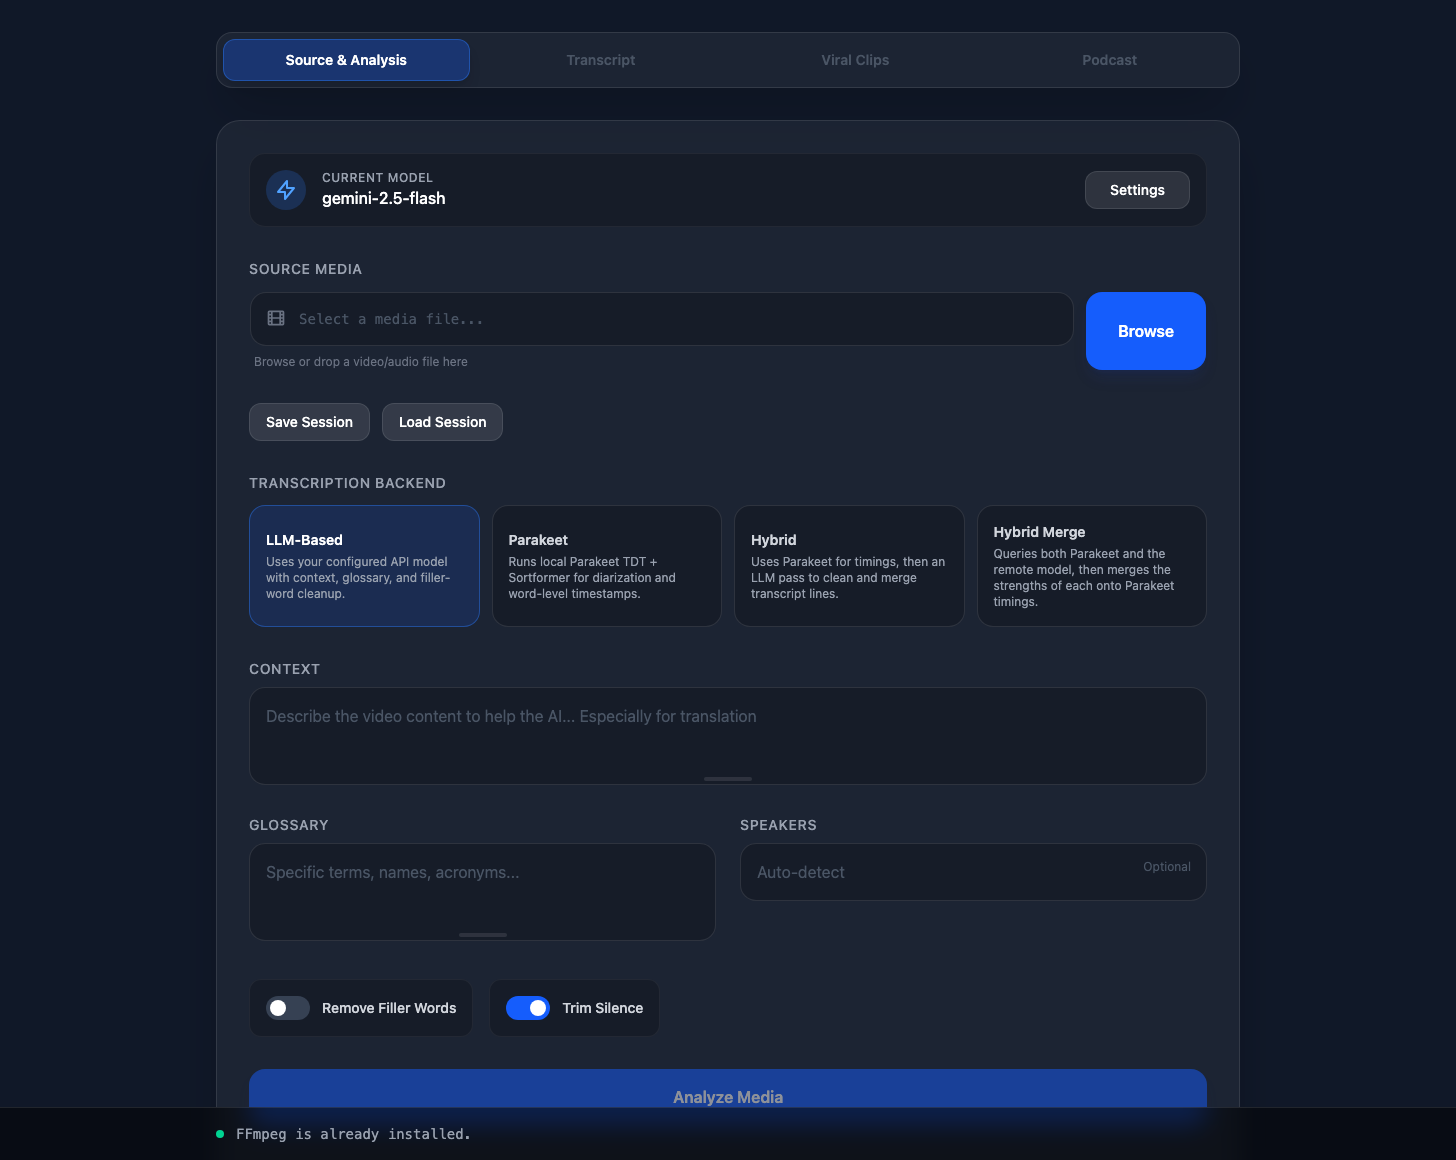
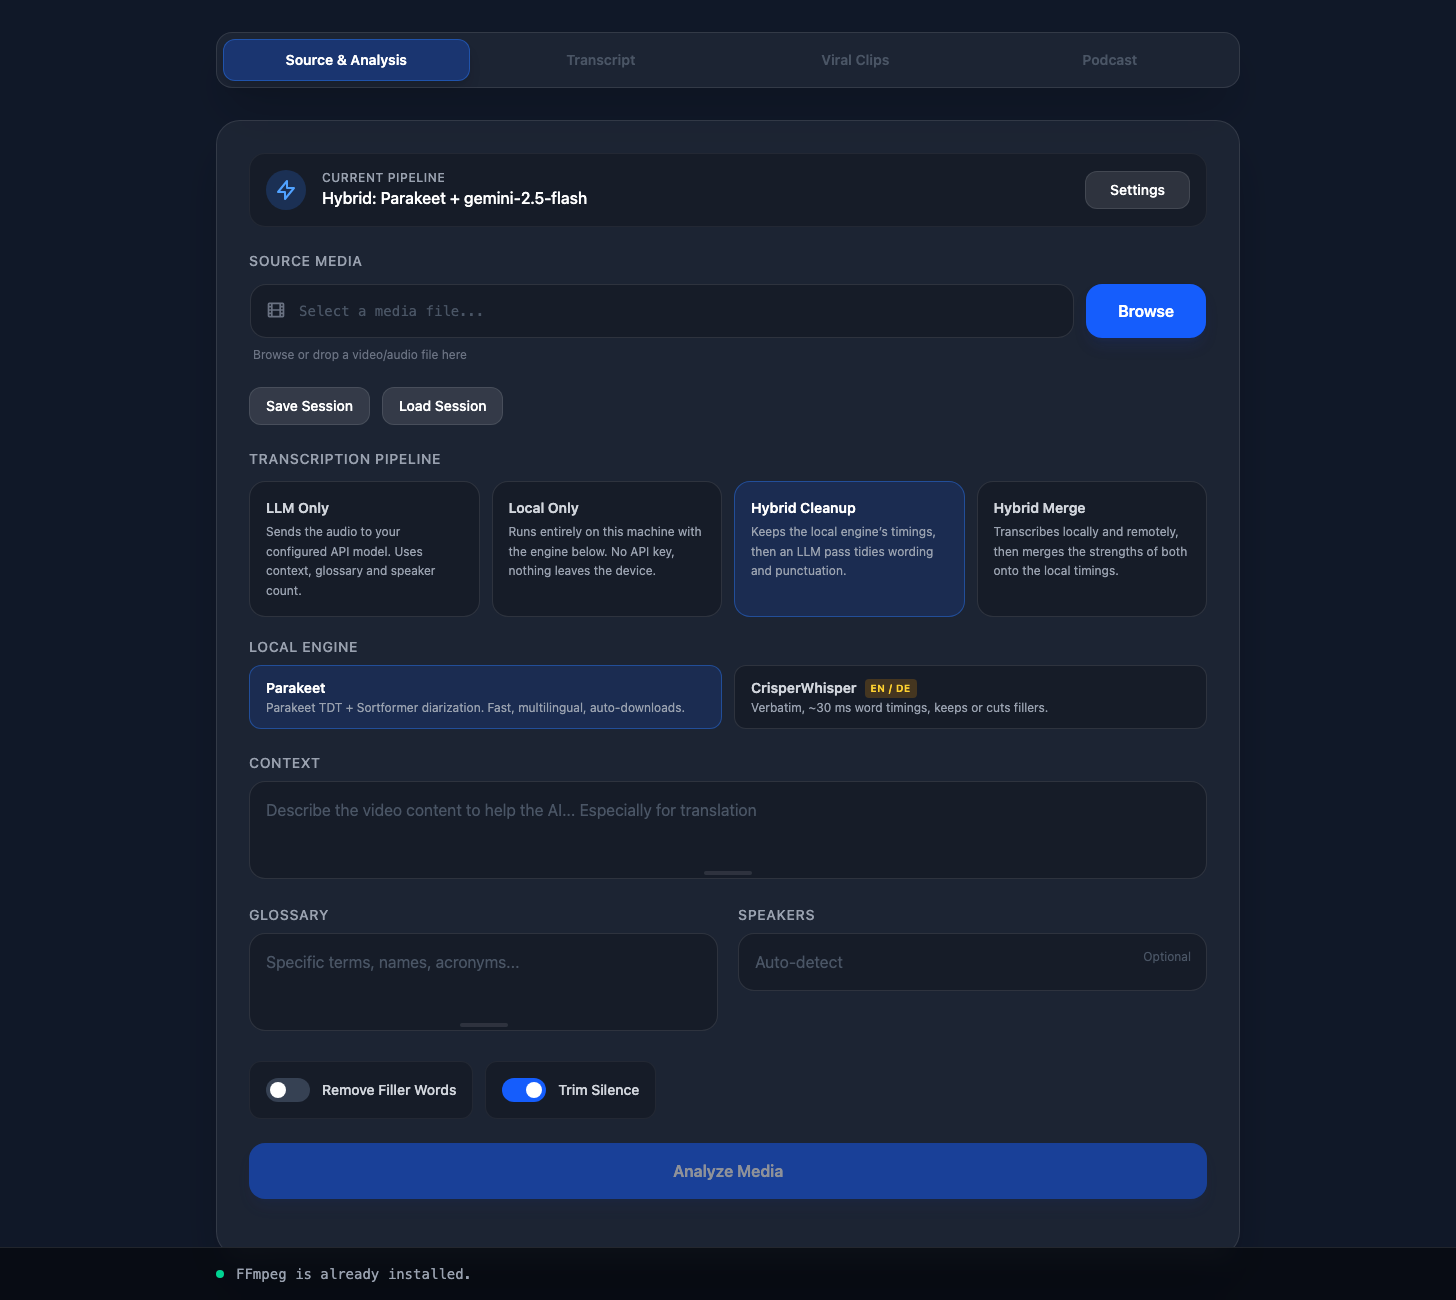
style(ui): fix control alignment and tighten panel rhythm
The Browse button was sized to the file input *plus* its helper hint,
because the hint sat inside the flex row and stretch alignment applied to
both. Moving the hint out makes the button match the input.

Also widens the truncated translation-language button and settles the panel
on a consistent 24px rhythm, which keeps the primary action visible without
scrolling.

The screenshot demo now seeds a hybrid pipeline so the generated previews
show both selection rows.

diff --git a/src/components/FileSelector.vue b/src/components/FileSelector.vue
@@ -163,7 +163,7 @@ onUnmounted(() => {
 </script>
 
 <template>
-    <div class="mb-8">
+    <div class="mb-6">
         <label class="block text-sm font-medium text-gray-400 mb-3 uppercase tracking-wider">Source Media</label>
         <div
             ref="dropZoneRef"
@@ -179,14 +179,16 @@ onUnmounted(() => {
                 <div class="absolute left-4 top-4 text-gray-500">
                     <VideoFileIcon class="h-5 w-5" />
                 </div>
-                <p class="mt-2 px-1 text-xs text-gray-500">
-                    Browse or drop a video/audio file here
-                </p>
             </div>
             <button @click="selectFile"
-                class="btn-primary px-8">
+                class="btn-primary px-8 shrink-0">
                 Browse
             </button>
         </div>
+        <!-- Outside the flex row: inside it, the row's stretch alignment made the
+             Browse button as tall as the input *plus* this hint. -->
+        <p class="mt-2 px-1 text-xs text-gray-500">
+            Browse or drop a video/audio file here
+        </p>
     </div>
 </template>

diff --git a/src/demo/screenshotDemo.ts b/src/demo/screenshotDemo.ts
@@ -35,9 +35,16 @@ function currentScenario(): Scenario {
 
 function seedStorage(scenario: Scenario) {
   localStorage.clear();
+  // Seed a hybrid pipeline so the preview shows both selection rows: the
+  // pipeline and the local engine it runs on top of.
   localStorage.setItem(
     'llm-settings',
-    JSON.stringify({ apiKey: 'demo', model: 'gemini-2.5-flash' })
+    JSON.stringify({
+      apiKey: 'demo',
+      model: 'gemini-2.5-flash',
+      transcriptionBackend: 'hybrid',
+      localEngine: 'parakeet',
+    })
   );
 
   if (scenario === 'transcript') {

diff --git a/src/components/SessionControls.vue b/src/components/SessionControls.vue
@@ -11,7 +11,7 @@ defineEmits<{
 </script>
 
 <template>
-  <div class="mb-8 flex flex-wrap gap-3">
+  <div class="mb-6 flex flex-wrap gap-3">
     <button
       @click="$emit('save-session')"
       class="px-4 py-2 bg-white/10 hover:bg-white/20 text-white text-sm font-medium rounded-xl transition-all border border-white/10 focus-visible:ring-2 focus-visible:ring-blue-500/50 focus-visible:outline-none"
